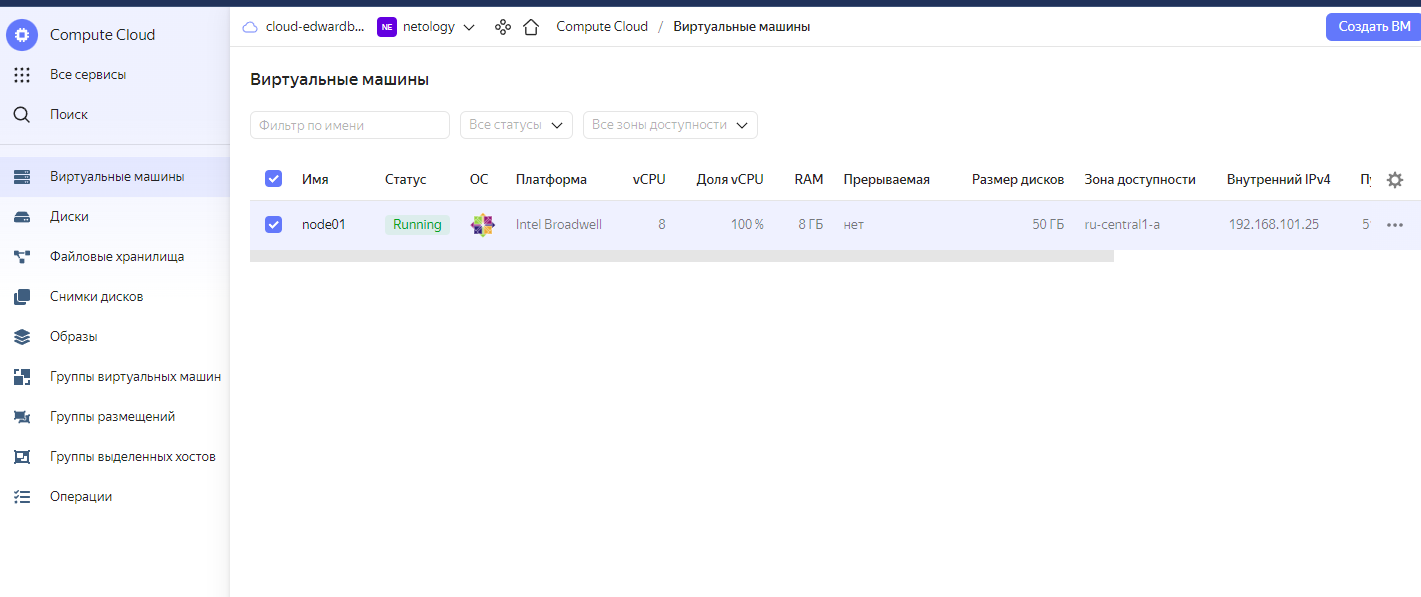
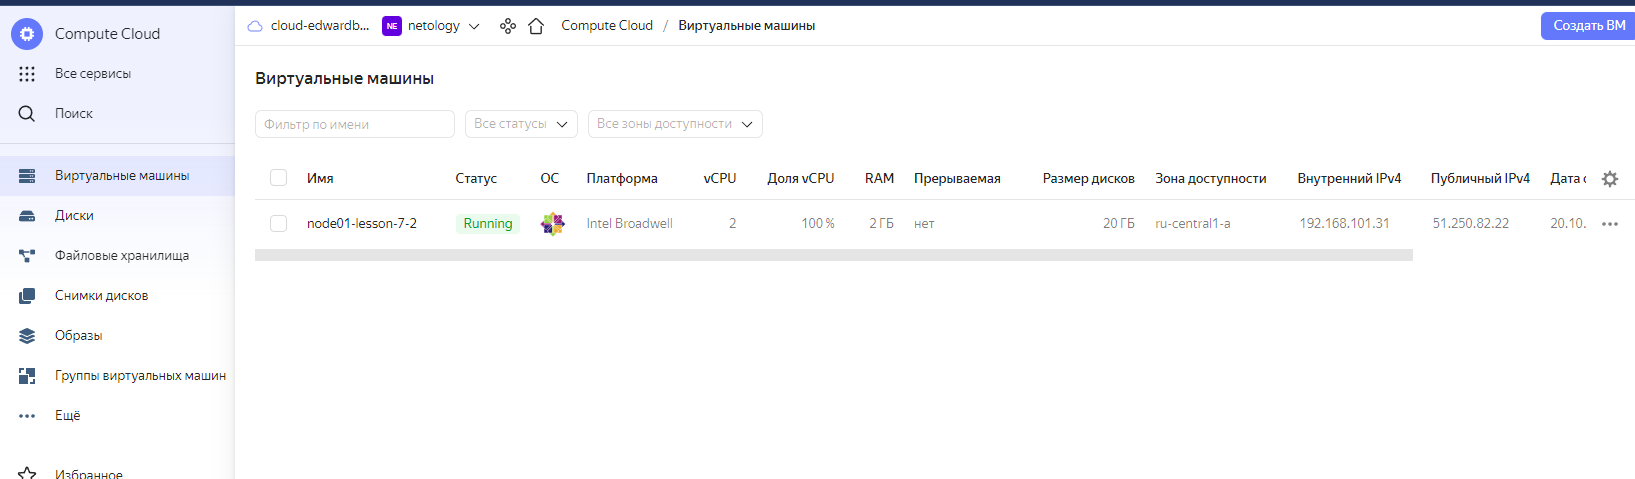
Lesson 7.2  Commit 10

diff --git a/LESSON_7.2/lesson_7.2.md b/LESSON_7.2/lesson_7.2.md
@@ -78,9 +78,9 @@ export AWS_SECRET_ACCESS_KEY=(your secret access key)
          | ajek2ne5khrks2n72on7 | my-robot |
          +----------------------+----------+
 
-3) Создаём профиль CLI для выполнения операций от имени сервисного аккаунта. Укажите имя профиля:
+3) Создаём FolderID (профиль CLI) для выполнения операций от имени сервисного аккаунта. Указываем имя FolderID:
 
-        root@docker:~/terraform#  yc config profile create  netology
+        root@docker:~/terraform#  yc config profile create netology
         Результат:
 
         Profile 'netology' created and activated
@@ -90,7 +90,6 @@ export AWS_SECRET_ACCESS_KEY=(your secret access key)
         root@docker:~/LESSON_7.2# yc resource-manager folder add-access-binding b1gks5lsfvt1r1gh37ib --role editor \
         --subject serviceAccount:ajek2ne5khrks2n72on7
         done (1s)
-
 
 5) Создаем первичный  авторизованный ключ для сервисного аккаунта my-robot  и запишем его в файл  key.json 
    для доступа terraform под сервисным эккаунтом my-robot в YC
@@ -102,16 +101,30 @@ export AWS_SECRET_ACCESS_KEY=(your secret access key)
         key_algorithm: RSA_2048
 
 
-
 6) Добавляем  в файл конфигурации /root/terraform/variables.cf  параметры из конфиг-листа ниже
 
         root@docker:~/terraform# yc config list
-        token: y0_AgAEA7qjbCX2AATuwQAAAADNx-_dP9L62XaATFq3ZDEjDT3hOpl-XXX
+        token: y0_AgAEA7qjbCX2AATuwQAAAADNx-_dP9L62XaATFq3ZDEjDT3hOpl-...
         cloud-id: b1g3dtd6rmc18p0kufbd
         folder-id: b1gks5lsfvt1r1gh37ib
         compute-default-zone: ru-central1-a
 
-7) Задаём конфигурацию профиля:
+7) Генерируем новый Ключ Доступа (IAM) для эккаунта my-robot
+
+        root@docker:~/terraform#   yc iam access-key create --service-account-name my-robot --description "this key is for Lesson 7.2"
+
+8) Проверяем список ключей авторизации для экканута my-robot
+
+          root@docker:~/terraform#   yc iam access-key list --service-account-name my-robot
+
+          +----------------------+----------------------+---------------------------+
+          |          ID          |  SERVICE ACCOUNT ID  |          KEY ID           |
+          +----------------------+----------------------+---------------------------+
+          | ajekm53aops709pmvhce | ajek2ne5khrks2n72on7 | YCAJEQrdiDPW5PSO37M7MuUw0 |
+          +----------------------+----------------------+---------------------------+
+
+
+9) Задаём конфигурацию профиля:
  
         root@docker:~/terraform#   yc config set service-account-key key.json
         root@docker:~/terraform#   yc config set cloud-id b1g3dtd6rmc18p0kufbd
@@ -123,7 +136,7 @@ export AWS_SECRET_ACCESS_KEY=(your secret access key)
         cloud-id — идентификатор облака.
         folder-id — идентификатор каталога (профиля netology).
 
-8) Добавляем аутентификационные данные в переменные окружения:
+10) Добавляем аутентификационные данные в переменные окружения:
 
         root@docker:~/terraform#  export YC_TOKEN=$(yc iam create-token)
         root@docker:~/terraform#  export YC_CLOUD_ID=$(yc config get cloud-id)
@@ -154,12 +167,12 @@ export AWS_SECRET_ACCESS_KEY=(your secret access key)
 
 3) В файле main.tf воспользуйтесь блоком data "aws_ami для поиска ami образа последнего Ubuntu.
 4) В файле main.tf создайте ресурс  
-      - либо ec2 instance.
+      - либо если AWS,  создаем ec2 instance.
         [https://registry.terraform.io/providers/hashicorp/aws/latest/docs/resources/instance]
         Постарайтесь указать как можно больше параметров для его определения. Минимальный набор параметров 
         указан в первом блоке Example Usage, но желательно, указать большее количество параметров.
    
-      - либо в YC  объект yandex_compute_image.
+      -либо в YC  объект ** yandex_compute_image.** 
         [https://registry.terraform.io/providers/yandex-cloud/yandex/latest/docs/resources/compute_image]
    
 5) Также в случае использования aws:
@@ -192,6 +205,8 @@ export AWS_SECRET_ACCESS_KEY=(your secret access key)
   - Либо поднимаем VPN-соединение для возможности скачать plugin-конфигурацию провайдера  с репозитория Hashicorp
 
            root@docker:~/   cd /root/vpnbook && openvpn --config vpnbook-fr1-udp53.ovpn
+           Username: vpnbook
+           Password: 79c8xza
  
   - Либо настраиваем репозиторий Yandex как основной , добавив следующий блок в  ~/.terraformrc :
 
@@ -224,29 +239,24 @@ export AWS_SECRET_ACCESS_KEY=(your secret access key)
         | fd88d14a6790do254kj7 | centos-7-v20220620  | centos-7    | f2euv1kekdgvc0jrpaet       | READY  |
         | fd8ad4ie6nhfeln6bsof | centos-7-v20220606  | centos-7    | f2egp3k2jkoqh7dl2t0l       | READY  |
    
-   Добавляем ссылку на образ fd88d14a6790do254kj7  в файл конфигурации  variables.tf   
+        Добавляем ссылку на свежий образ fd88d14a6790do254kj7  в файл конфигурации  variables.tf  
 
 
+4) Запускаем проверку плана Terraform и  форматирование файлов конфигурации
 
-
-
-
-
-
-4) Запускаем проверку плана Terraform
-
-        Выполняем  последовательно   terraform validate , terraform plan
+        Выполняем  последовательно   terraform validate , terraform fmt terraform plan
         Когда применяем Terraform план -  соглашаемся - "yes"
         root@docker:~/terraform# terraform plan
  
-       Успешный результат: Plan: 3 to add, 0 to change, 0 to destroy.
+       
+        Plan: 1 to add, 0 to change, 1 to destroy.
 
-       Changes to Outputs:
-       + external_ip_address_node01_yandex_cloud = (known after apply)
-       + internal_ip_address_node01_yandex_cloud = (known after apply)
+        Changes to Outputs:
+        + external_ip_address_node01_yandex_cloud = (known after apply)
+        + internal_ip_address_node01_yandex_cloud = (known after apply)
 
 
-5) Создаем виртуальную сеть, подсеть и сам инстанс  с помощью terraform. 
+5) Создаем виртуальную сеть, подсеть и сам инстанс  с помощью terraform apply. 
 
         root@docker:~/LESSON_7.2# terraform apply
         yandex_vpc_network.default: Refreshing state... [id=enppf11bp3tek2o9vqf9]
@@ -277,9 +287,13 @@ export AWS_SECRET_ACCESS_KEY=(your secret access key)
 
         Outputs:
         
-        external_ip_address_node01_yandex_cloud = "51.250.74.150"
-        internal_ip_address_node01_yandex_cloud = "192.168.101.25"
+       external_ip_address_node01_yandex_cloud = "51.250.82.22"
+       internal_ip_address_node01_yandex_cloud = "192.168.101.31"
+
 
 ---
 ![img.png](img.png)
 ---
+![img_1.png](img_1.png)
+---
+![img_2.png](img_2.png)
